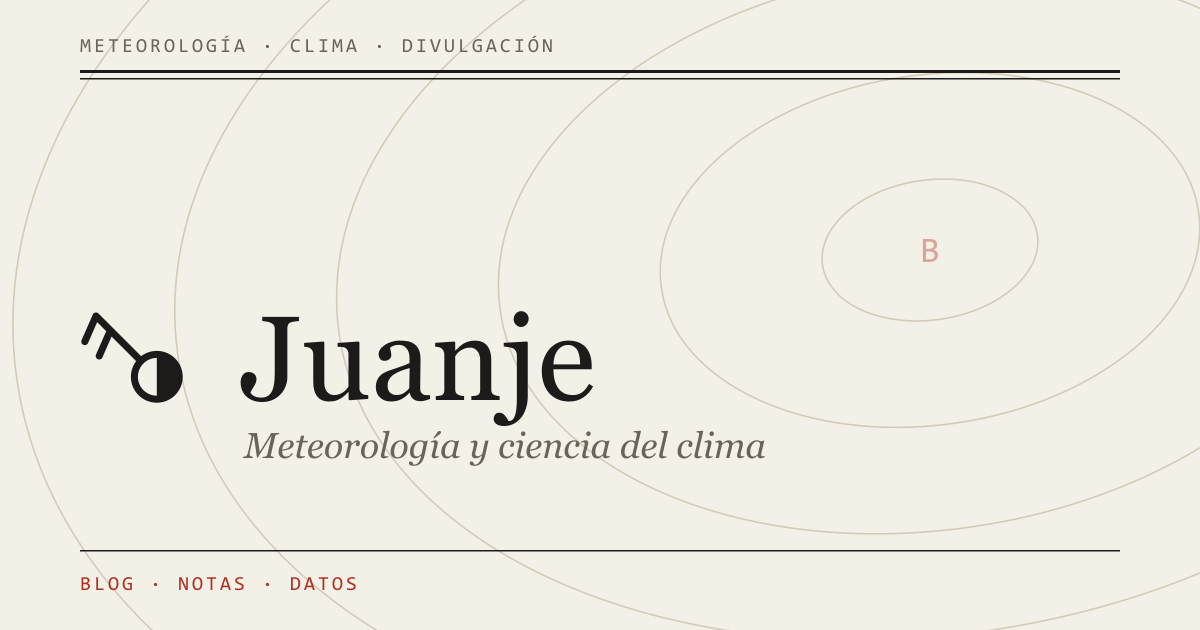
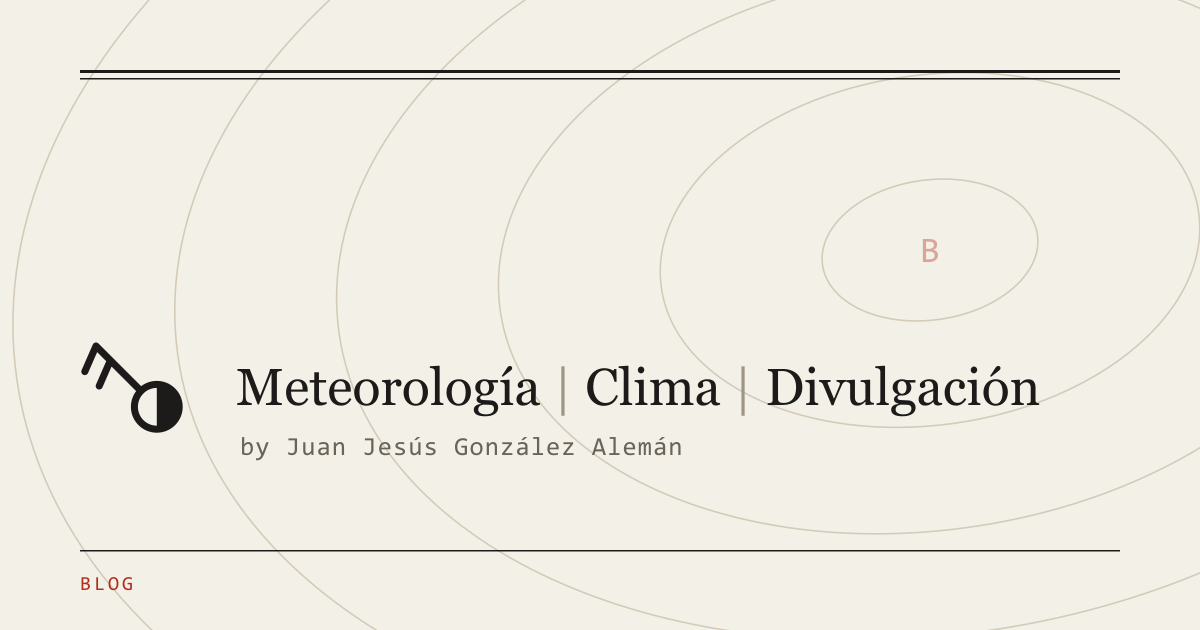
Portada limpia con la lista de artículos y nuevo nombre del sitio

diff --git a/src/config/site.ts b/src/config/site.ts
@@ -3,10 +3,10 @@
 import { PUBLIC_SECTIONS } from './sections.mjs';
 
 export const SITE = {
-  name: 'Juanje',
-  title: 'Juanje · Meteorología y clima',
+  name: 'Meteorología | Clima | Divulgación',
+  title: 'Meteorología | Clima | Divulgación · Juan Jesús González Alemán',
   description:
-    'Web personal y blog de Juanje, meteorólogo y científico del clima: actualidad meteorológica, clima y divulgación.',
+    'Blog de Juan Jesús González Alemán sobre actualidad meteorológica, clima y divulgación.',
   author: 'Juan Jesús González Alemán',
   lang: 'es',
   locale: 'es_ES',
@@ -19,7 +19,7 @@ export const SITE = {
   // Imagen por defecto para Open Graph (1200×630) en public/.
   ogImage: '/og-default.png',
   postsPerPage: 10,
-  latestOnHome: 3,
+  latestOnHome: 10,
 };
 
 // Deja la url vacía ('') para ocultar una red en cabecera/pie.
